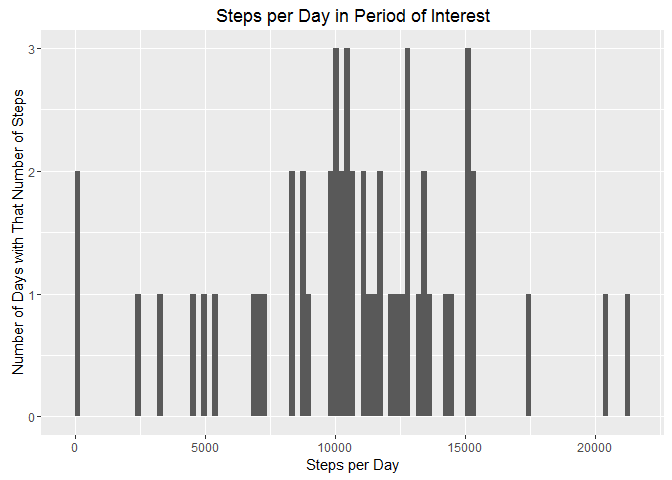
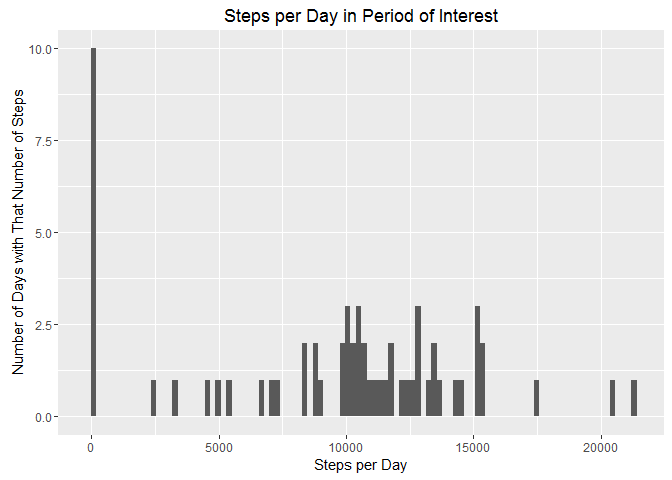
*.Rmd display number missing

diff --git a/PA1_template.html b/PA1_template.html
@@ -67,34 +67,84 @@ img {
 <div id="loading-and-preprocessing-the-data" class="section level2">
 <h2>Loading and preprocessing the data</h2>
 <p>Project data was supplied as a aip file <code>activity.zip</code> which was unzipped manually to yield <code>activity.csv</code>.</p>
-<pre class="r"><code>require(ggplot2)
+<pre class="r"><code>require(dplyr)
+require(ggplot2)
+
 data &lt;- read.csv(&quot;activity.csv&quot;)
 
-#  Just a simple comment.
-#` A backticked comment
-#' An SQUOTEd comment</code></pre>
+# hour is zero-based, slot it one-based :-(
+data2          &lt;- mutate(data, 
+                   hour = as.integer((0.001 + interval) / 100),
+                   slot = 1 + (interval %% 100) / 5 )
+
+data3          &lt;- select(data2, date, hour, slot, steps)
+data3$date     &lt;- as.Date(data3$date)
+
+avgBySlot      &lt;- select(data3, slot, steps) %&gt;%
+                  group_by(slot)             %&gt;% 
+                  summarize(meanSteps=mean(steps, na.rm=TRUE))
+
+avgByHour      &lt;- select(data3, hour, steps) %&gt;%
+                  group_by(hour)             %&gt;% 
+                  summarize(meanSteps=mean(steps, na.rm=TRUE))</code></pre>
 </div>
 <div id="what-is-mean-total-number-of-steps-taken-per-day" class="section level2">
 <h2>What is mean total number of steps taken per day?</h2>
-<pre class="r"><code>stepsPerDay      &lt;- aggregate(data=data, steps ~ date, FUN = sum)
-stepsPerDay$date &lt;- as.Date(stepsPerDay$date)
+<pre class="r"><code>perDay         &lt;- select(data3, date, steps) %&gt;% 
+                  group_by(as.factor(date))  %&gt;%
+                  summarize(totalSteps=sum(steps, na.rm=TRUE))
 
-
-ggplot(data=stepsPerDay, aes(steps))               + 
-    xlab('Steps per Day')                  + 
+ggplot(data=perDay, aes(totalSteps))               +
+    xlab('Steps per Day')                  +
     ylab('Number of Days with That Number of Steps')       +
-    ggtitle('Steps per Day in Period of Interest') + 
+    ggtitle('Steps per Day in Period of Interest') +
     geom_histogram(bins=100)</code></pre>
[1 lines of base64/hex data omitted]
-<pre class="r"><code>meanStepsPerDay  &lt;- mean(stepsPerDay$steps)
-medianStepsPerDay &lt;- median(stepsPerDay$steps)</code></pre>
-<p>We can see from the above that the mean number of steps per day is 10766 and the median is 10765.</p>
[1 lines of base64/hex data omitted]
+<pre class="r"><code>meanSteps   &lt;- sprintf(&quot;%.0f&quot;, mean(perDay$totalSteps))
+medianSteps &lt;- sprintf(&quot;%.0f&quot;, median(perDay$totalSteps))</code></pre>
+<p>The figure above shows how many days in the period of interest have step counts in various ranges (buckets).</p>
+<p>The mean number of steps per day is 9354 and the median is 10395.</p>
 </div>
 <div id="what-is-the-average-daily-activity-pattern" class="section level2">
 <h2>What is the average daily activity pattern?</h2>
+<p>This is understood to be the average across all 60 or so days in the period for which we have data. There are 288 = 12x24 5-minute intervals in each day; this is the number on the x-axis in the graph.</p>
+<pre class="r"><code># Add a column converting hour and slot to 'daySlot', the [1..288] index 
+# of this particular 5-minute slot in the day
+
+data4  &lt;- mutate(data3, daySlot= (hour * 12) + slot)
+
+data5  &lt;- select(data4, daySlot, steps) %&gt;% 
+          group_by(daySlot)             %&gt;%
+          summarize(meanSteps = mean(steps, na.rm=TRUE))
+
+plot(data5$daySlot, data5$meanSteps, type='l', 
+       main='Typical Daily Activity (Steps)',
+       xlab='5-minute interval [1:288]',
+       ylab='Average Number of Steps in Interval')</code></pre>
[1 lines of base64/hex data omitted]
+<pre class="r"><code>maxMeanSteps &lt;- max(data5$meanSteps)</code></pre>
+<p>The maximum averagenumber of steps in any 5-minute interval was 206.17.</p>
 </div>
 <div id="imputing-missing-values" class="section level2">
 <h2>Imputing missing values</h2>
+<div id="calculate-and-report-total-number-of-missing-values" class="section level3">
+<h3>Calculate and Report Total Number of Missing Values</h3>
+</div>
+<div id="devise-a-strategy-for-filling-in-missing-values" class="section level3">
+<h3>Devise a Strategy for Filling in Missing Values</h3>
+</div>
+<div id="create-a-new-dataset-with-missing-values-replaced" class="section level3">
+<h3>Create a New Dataset With Missing Values Replaced</h3>
+</div>
+<div id="make-a-histogram-of-total-steps-taken-each-day" class="section level3">
+<h3>Make a Histogram of Total Steps Taken Each Day</h3>
+</div>
+<div id="calculate-and-report-mean-and-median" class="section level3">
+<h3>Calculate and Report Mean and Median</h3>
+</div>
+<div id="effect-of-imputing-on-estimates-of-total-daily-steps" class="section level3">
+<h3>Effect of Imputing on Estimates of Total Daily Steps</h3>
+</div>
 </div>
 <div id="are-there-differences-in-activity-patterns-between-weekdays-and-weekends" class="section level2">
 <h2>Are there differences in activity patterns between weekdays and weekends?</h2>

diff --git a/PA1_template.md b/PA1_template.md
@@ -8,48 +8,105 @@ manually to yield `activity.csv`.
 
 
 ```r
+require(dplyr)
 require(ggplot2)
+
 data <- read.csv("activity.csv")
 
-#  Just a simple comment.
-#` A backticked comment
-#' An SQUOTEd comment
+# hour is zero-based, slot it one-based :-(
+data2          <- mutate(data, 
+                   hour = as.integer((0.001 + interval) / 100),
+                   slot = 1 + (interval %% 100) / 5 )
+
+data3          <- select(data2, date, hour, slot, steps)
+data3$date     <- as.Date(data3$date)
+
+avgBySlot      <- select(data3, slot, steps) %>%
+                  group_by(slot)             %>% 
+                  summarize(meanSteps=mean(steps, na.rm=TRUE))
+
+avgByHour      <- select(data3, hour, steps) %>%
+                  group_by(hour)             %>% 
+                  summarize(meanSteps=mean(steps, na.rm=TRUE))
 ```
 
 ## What is mean total number of steps taken per day?
 
 
+
 ```r
-stepsPerDay      <- aggregate(data=data, steps ~ date, FUN = sum)
-stepsPerDay$date <- as.Date(stepsPerDay$date)
+perDay         <- select(data3, date, steps) %>% 
+                  group_by(as.factor(date))  %>%
+                  summarize(totalSteps=sum(steps, na.rm=TRUE))
 
-
-ggplot(data=stepsPerDay, aes(steps)) 	           + 
-    xlab('Steps per Day') 		           + 
+ggplot(data=perDay, aes(totalSteps)) 	           +
+    xlab('Steps per Day') 		           +
     ylab('Number of Days with That Number of Steps')	   +
-    ggtitle('Steps per Day in Period of Interest') + 
+    ggtitle('Steps per Day in Period of Interest') +
     geom_histogram(bins=100)
 ```
 
 ![](PA1_template_files/figure-html/histogram-1.png)
-The figure above shows how many days in the period of interest have step 
-counts in various buckets.
-
 
 ```r
-meanStepsPerDay  <- mean(stepsPerDay$steps)
-medianStepsPerDay <- median(stepsPerDay$steps)
+meanSteps   <- sprintf("%.0f", mean(perDay$totalSteps))
+medianSteps <- sprintf("%.0f", median(perDay$totalSteps))
 ```
 
-We can see from the above that the mean number of steps per day is
-10766 and the median is 10765.
+The figure above shows how many days in the period of interest have step
+counts in various ranges (buckets).
+
+The mean number of steps per day is 9354 and the median is 
+10395.
 
 ## What is the average daily activity pattern?
 
+This is understood to be the average across all 60 or so days in the period
+for which we have data.  There are 288 = 12x24 5-minute intervals in each
+day; this is the number on the x-axis in the graph.
 
+
+```r
+# Add a column converting hour and slot to 'daySlot', the [1..288] index 
+# of this particular 5-minute slot in the day
+
+data4  <- mutate(data3, daySlot= (hour * 12) + slot)
+
+data5  <- select(data4, daySlot, steps) %>% 
+          group_by(daySlot)             %>%
+          summarize(meanSteps = mean(steps, na.rm=TRUE))
+
+plot(data5$daySlot, data5$meanSteps, type='l', 
+       main='Typical Daily Activity (Steps)',
+       xlab='5-minute interval [1:288]',
+       ylab='Average Number of Steps in Interval')
+```
+
+![](PA1_template_files/figure-html/dailyActivity-1.png)
+
+```r
+maxMeanSteps <- max(data5$meanSteps)
+```
+
+The maximum averagenumber of steps in any 5-minute interval was 
+206.17.
 
 ## Imputing missing values
+
+### Calculate and Report Total Number of Missing Values
+
+
+### Devise a Strategy for Filling in Missing Values
+
+### Create a New Dataset With Missing Values Replaced
+
+### Make a Histogram of Total Steps Taken Each Day
+
+### Calculate and Report Mean and Median
+
+### Effect of Imputing on Estimates of Total Daily Steps
 
 
 
 ## Are there differences in activity patterns between weekdays and weekends?
+
